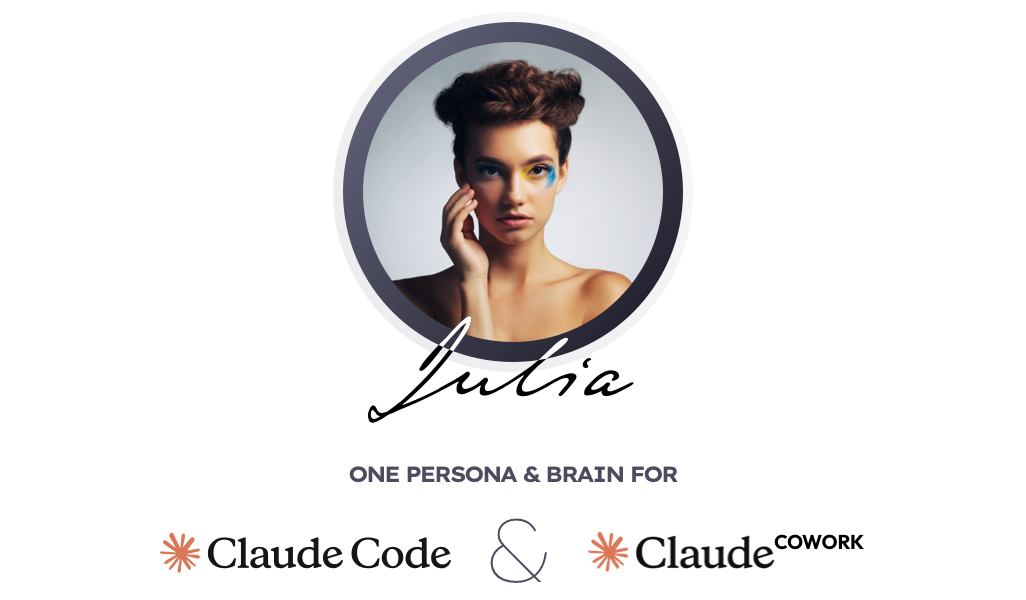
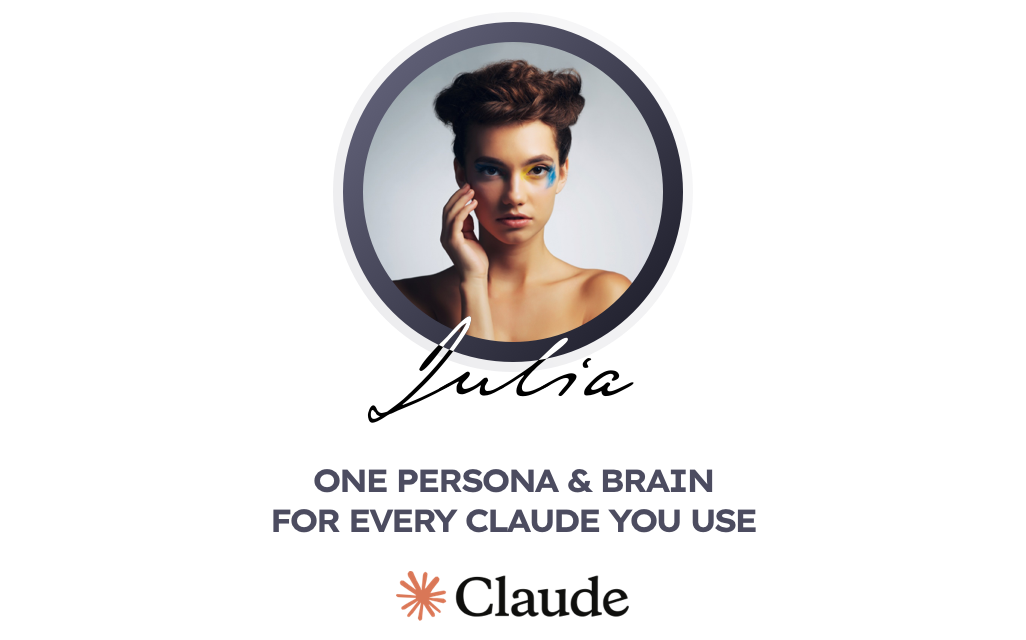
docs: lead the README with what it does and where it works

Changed region(s): [[0.2495, 0.03, 0.7485, 0.84], [0.1559, 0.87, 0.8421, 0.99]]

diff --git a/README.md b/README.md
@@ -1,10 +1,12 @@
 <p align="center">
-  <img src="https://raw.githubusercontent.com/elninopl/agent-julia/main/scripts/AgentJulia.png" alt="Agent Julia — a named persona and one memory for Claude Code and Claude Desktop" width="540">
+  <img src="https://raw.githubusercontent.com/elninopl/agent-julia/main/scripts/AgentJulia.png" alt="Agent Julia: one persona and one memory for every Claude you use" width="540">
 </p>
 
 # Agent Julia
 
-**Give your AI a name, a voice, and a memory that stays.** You start by building the persona: what it is called, its pronouns, the language it answers in, how it writes, what it must never store. From then on you address it by that name instead of prompting an assistant, and the same character answers on Claude Code and on Claude Desktop. It is yours: plain markdown in a git repo you own, kept small in the model's context, corrected in passing and remembered for good.
+**One AI that knows you, in every Claude you use.**
+
+You build the persona once: what it is called, which language it answers in, how it writes and what it must never store. From then on you talk to it by name in Claude Code, Claude Desktop, claude.ai, the Claude app on your phone and on your other computers, and it is the same one everywhere. It remembers what you decided and writes the way you taught it. Everything it knows is plain markdown in a git repo you own.
 
 [![npm](https://img.shields.io/npm/v/agent-julia.svg)](https://www.npmjs.com/package/agent-julia)
 [![license](https://img.shields.io/badge/license-MIT-blue.svg)](./LICENSE)
@@ -13,18 +15,55 @@
 npx agent-julia init
 ```
 
-Every Claude surface forgets between sessions and keeps its own separate notes, so the same person gets a slightly different, amnesiac assistant on each one — one that has to be re-taught the same preferences and called nothing in particular. The usual fix, piling everything into `CLAUDE.md` and global instructions, backfires: long context measurably degrades the model, and a pasted block goes stale the moment you correct something.
+## What it looks like
 
-Agent Julia gives your AI an identity instead of a configuration. The first thing the wizard asks is what to call it, and from then on that is who answers: you write "Julia, take a look at this" and Julia replies, in her own voice, on Claude Code and on Claude Desktop alike. You build that voice by talking, correcting it the way you would correct a colleague ("stop hedging", "don't open with my name"), and it keeps the correction everywhere from the next turn on. Its memory is one folder of markdown you own, with a small budgeted slice of persona riding each message and the rest recalled only when it is needed.
+**Monday, Claude Code on your laptop**
+
+> **You:** Julia, remember: the Atlas launch moves to April, after the security audit.
+>
+> **Julia:** Saved → atlas.
+
+**Wednesday, the Claude app on your phone**
+
+> **You:** Julia, when does Atlas launch?
+>
+> **Julia:** In April. You moved it on Monday because of the security audit.
+
+**Any day, in any app**
+
+> **You:** Stop opening with "Great question".
+>
+> **Julia:** Saved as a voice correction. Every app follows it from now on.
+
+The phone and claude.ai reach your memory through [server mode](#run-as-a-server).
+
+## Why it helps
+
+**You keep re-teaching the same preferences.** You told Claude Code to skip the "Great question!" preamble and to answer in Polish. Tomorrow, in Claude Desktop, the preamble is back and the answer comes in English. With Agent Julia you say it once, and every app reads the same correction from the next turn on.
+
+**Your `CLAUDE.md` has grown to 500 lines.** All of it loads on every turn of every session, and the answers get worse as the window fills with things the task at hand does not need. Agent Julia keeps a persona core of about 1,200 tokens in context and leaves the rest in memory, where the agent finds the one page it needs when you ask.
+
+## Where it works
+
+| | How it connects |
+| --- | --- |
+| **Claude Code** | registered by the wizard; the persona is in every session from the first message |
+| **Claude Desktop** (Cowork) | registered by the wizard; you paste one short block into its settings once |
+| **claude.ai** | a custom connector to your [server](#run-as-a-server), approved with your own password |
+| **The Claude app on your phone** | the same connector: add it on the web and it is there |
+| **Your other computers** | `agent-julia init`, then "On an agent-julia server" |
+| **A team or a household** | a [shared store](#shared-stores) mounted next to your own memory |
+| **Codex, Gemini CLI** | the persona [exported](#beyond-claude) into their instruction file and kept current |
 
 ## Highlights
 
-- **A persona you build, then call by name** — the wizard asks what it is called, then pronouns, the language it replies in and how it writes. You open with "Julia, look at this" the way you would with a person, it answers as that name rather than as "the assistant", and it is the same character on every surface. Renaming it later is a line in `~/.config/agent-julia/config.json` plus `agent-julia sync`.
-- **A voice you shape by talking** — "stop hedging", "don't use that word", "write to my co-founder, not to an engineer". Say it once, in passing, and it holds. Withdraw it the same way.
-- **One memory, every surface** — Claude Code and Claude Desktop share the same brain; a fact saved in one is known in the other.
-- **Other machines, claude.ai and the phone too** — run it as a server and every Claude you use reaches the same memory: another computer through a relay, claude.ai and the mobile app as a custom connector. Shared stores sit next to your own when a team keeps one.
-- **You own it** — plain markdown in a git repo you control, not a database locked inside an app. Readable, portable, `git log`-able, and no write can silently destroy what it was meant to extend.
-- **Small context footprint** — only a budgeted persona core rides each turn; everything else is recalled on demand, so the window stays clear.
+- **A persona you call by name.** The wizard asks what it is called, then its pronouns, its language and how it writes. You open with "Julia, look at this" as you would with a colleague, and Julia is the one who answers.
+- **A voice you shape by talking.** "Stop hedging." "Don't open with my name." Say it once, in passing, and it holds in every app. Take it back the same way.
+- **It catches what you forget to save.** Ask it to remember and it does. With [capture hooks](#capture-hooks) on, a background pass after a Claude Code session also saves the decisions and corrections nobody asked it to keep.
+- **Yours, in plain files.** Markdown in a git repo you control: open it, edit it by hand, `git log` it, take it elsewhere. The search index is built from those files and rebuilds itself if you delete it.
+- **Light on context.** About 1,200 tokens of persona ride each turn. Everything else waits in memory until a question needs it.
+- **Search that gets your meaning.** Keyword search with stemming and accent folding is always on. Add the optional multilingual model, which runs on your machine, and a question in Polish finds a note you wrote in English.
+- **Private where it counts.** You decide what it must never store, starting from passwords, keys, card numbers and other people's private details, and that rule rides every message. The server listens only on your own machine until you turn on authentication, and claude.ai gets in only after you type the owner password.
 
 ---
 
@@ -86,20 +125,6 @@ You don't call tools or memorize commands. You talk to your agent by name, and i
   the state lives in memory, so you can start on one machine and finish on another.
 
 Everything you save lands as markdown in your repo and is committed, so you can open it, edit it by hand, or `git log` the history any time.
-
-## Why it helps
-
-Two everyday frustrations it removes:
-
-**A preference you keep re-teaching.** You tell Claude Code to skip the "Great question!" preamble and reply in Polish.
-
-- *Before* — tomorrow, in Cowork on your laptop, the preamble is back and it answers in English. You correct it again. And again.
-- *After* — you record it once with `correct_voice`; Code and Cowork both read the same correction from the next turn on.
-
-**The `CLAUDE.md` tax.** Your `~/.claude/CLAUDE.md` has grown to 500 lines — every project, every preference, every person.
-
-- *Before* — all of it loads on every turn of every session, and the answer degrades as the window fills with things this task doesn't need.
-- *After* — a persona core sized by `contextBudget` (1,200 tokens by default, plus a short instruction telling the agent where its memory lives) rides each turn; the 500 lines live in your memory, and only the page you actually need is pulled in when you ask.
 
 ## How it works
 
